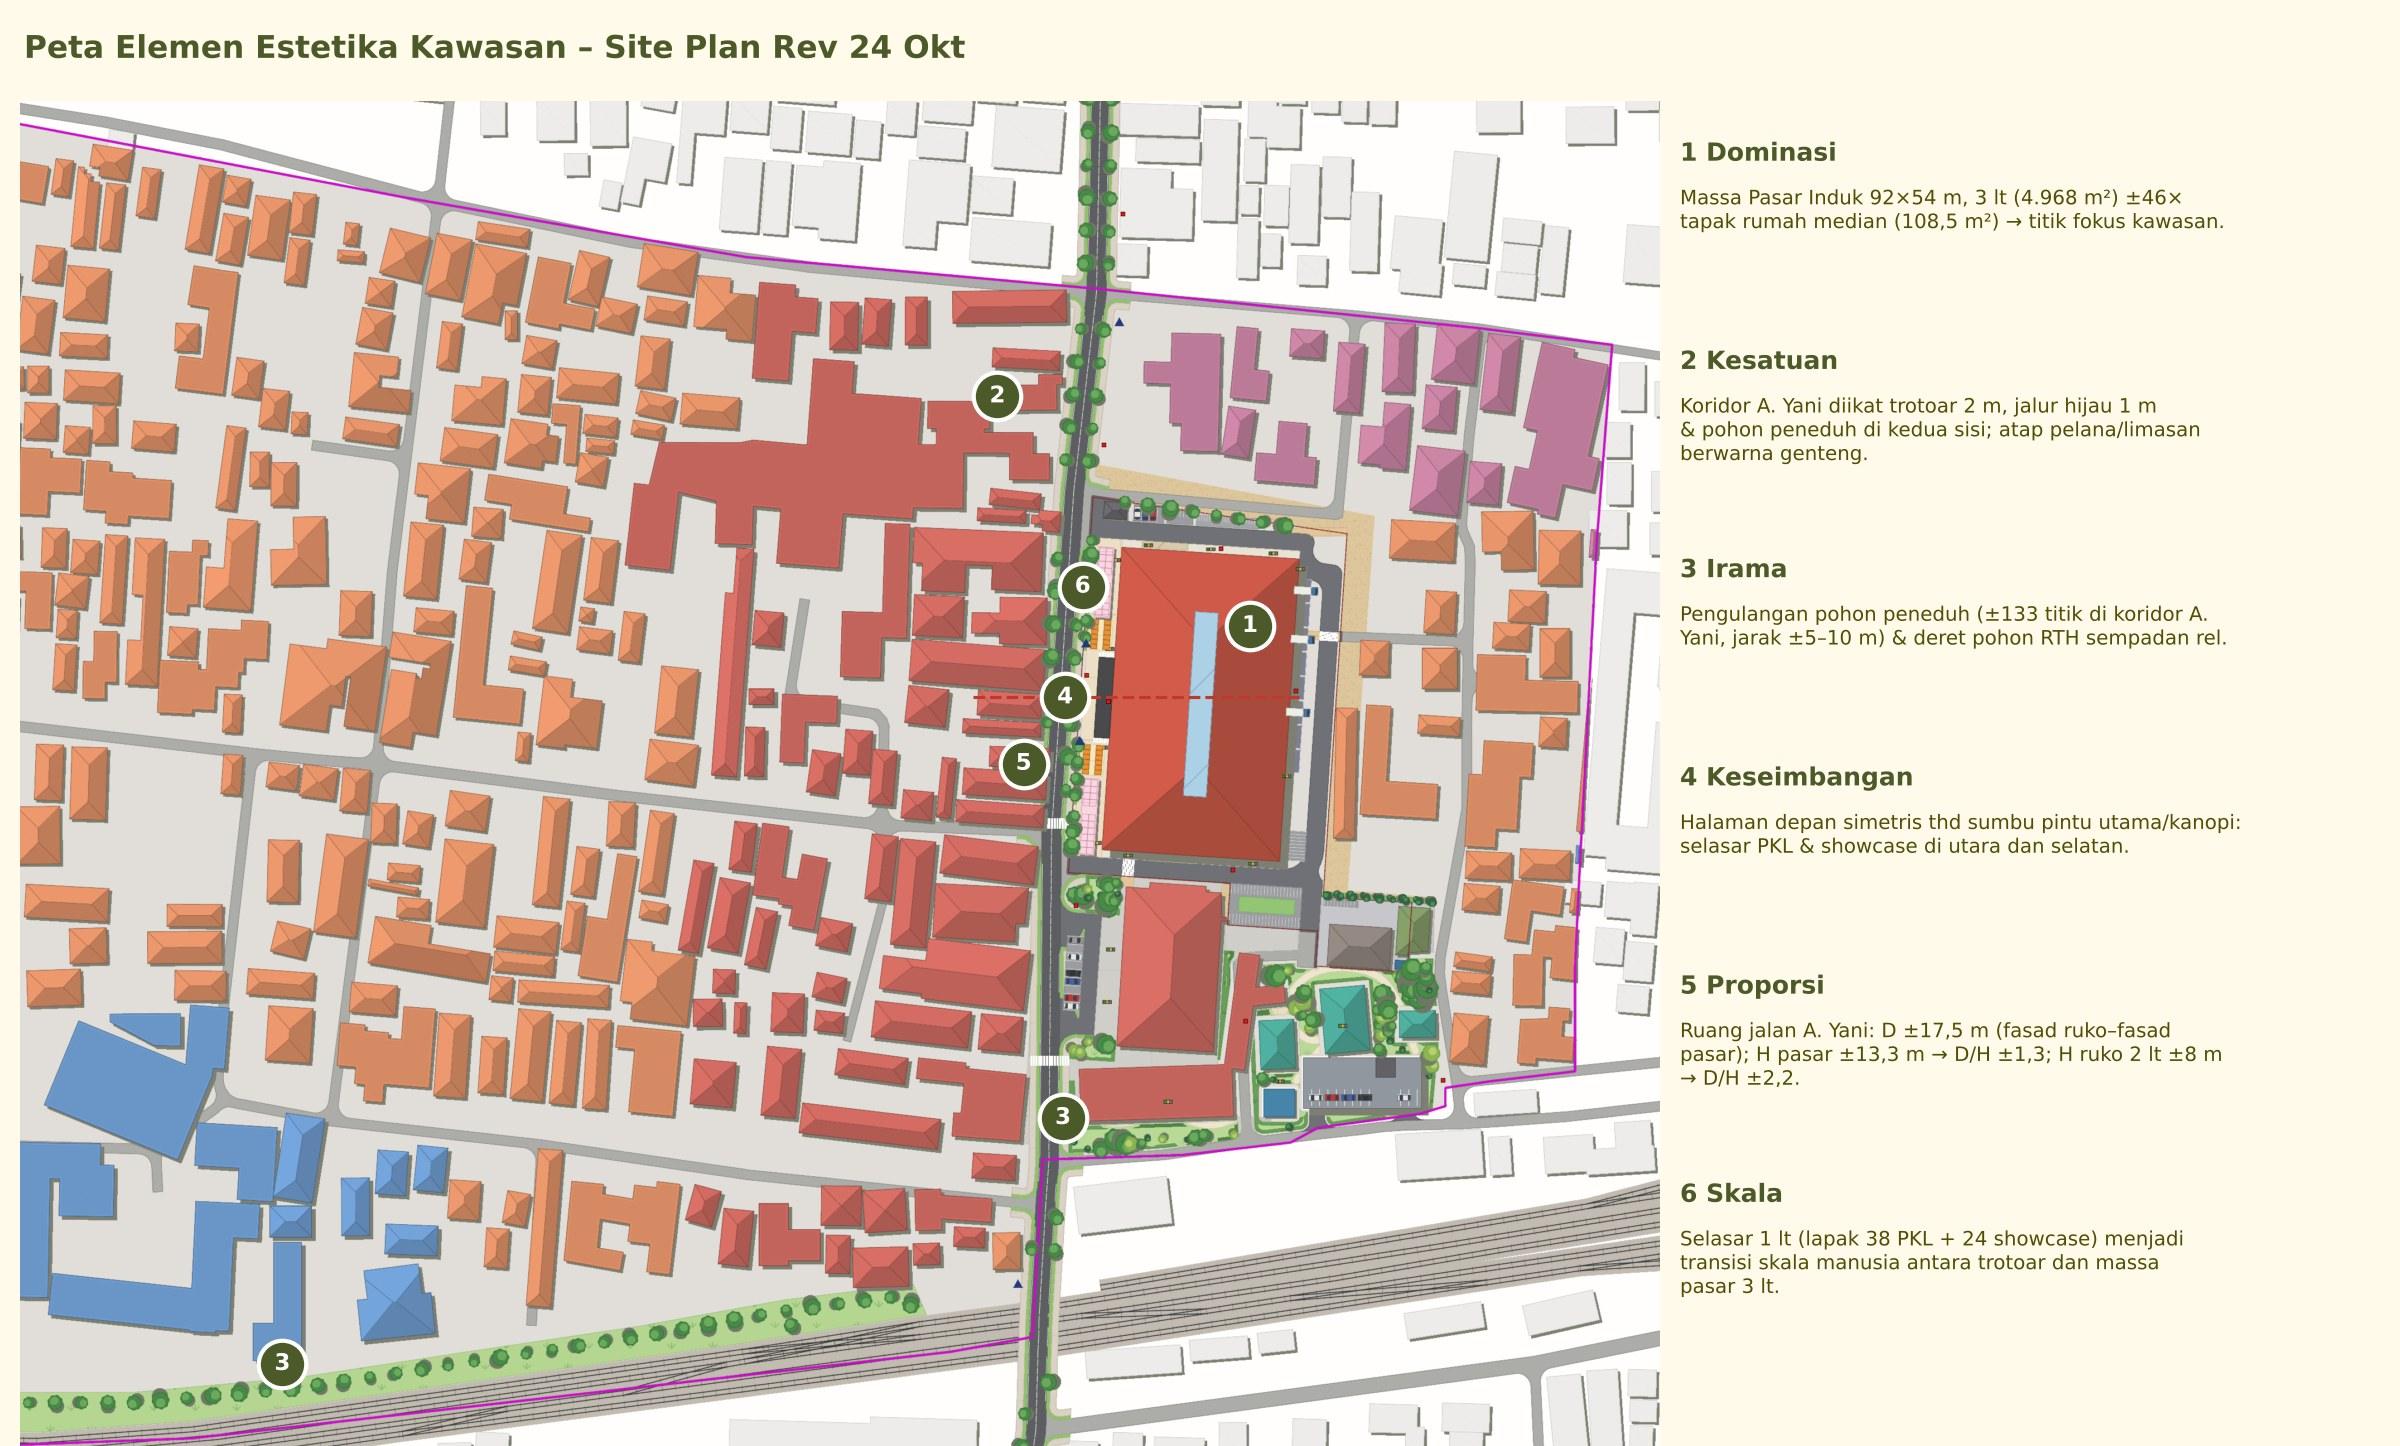
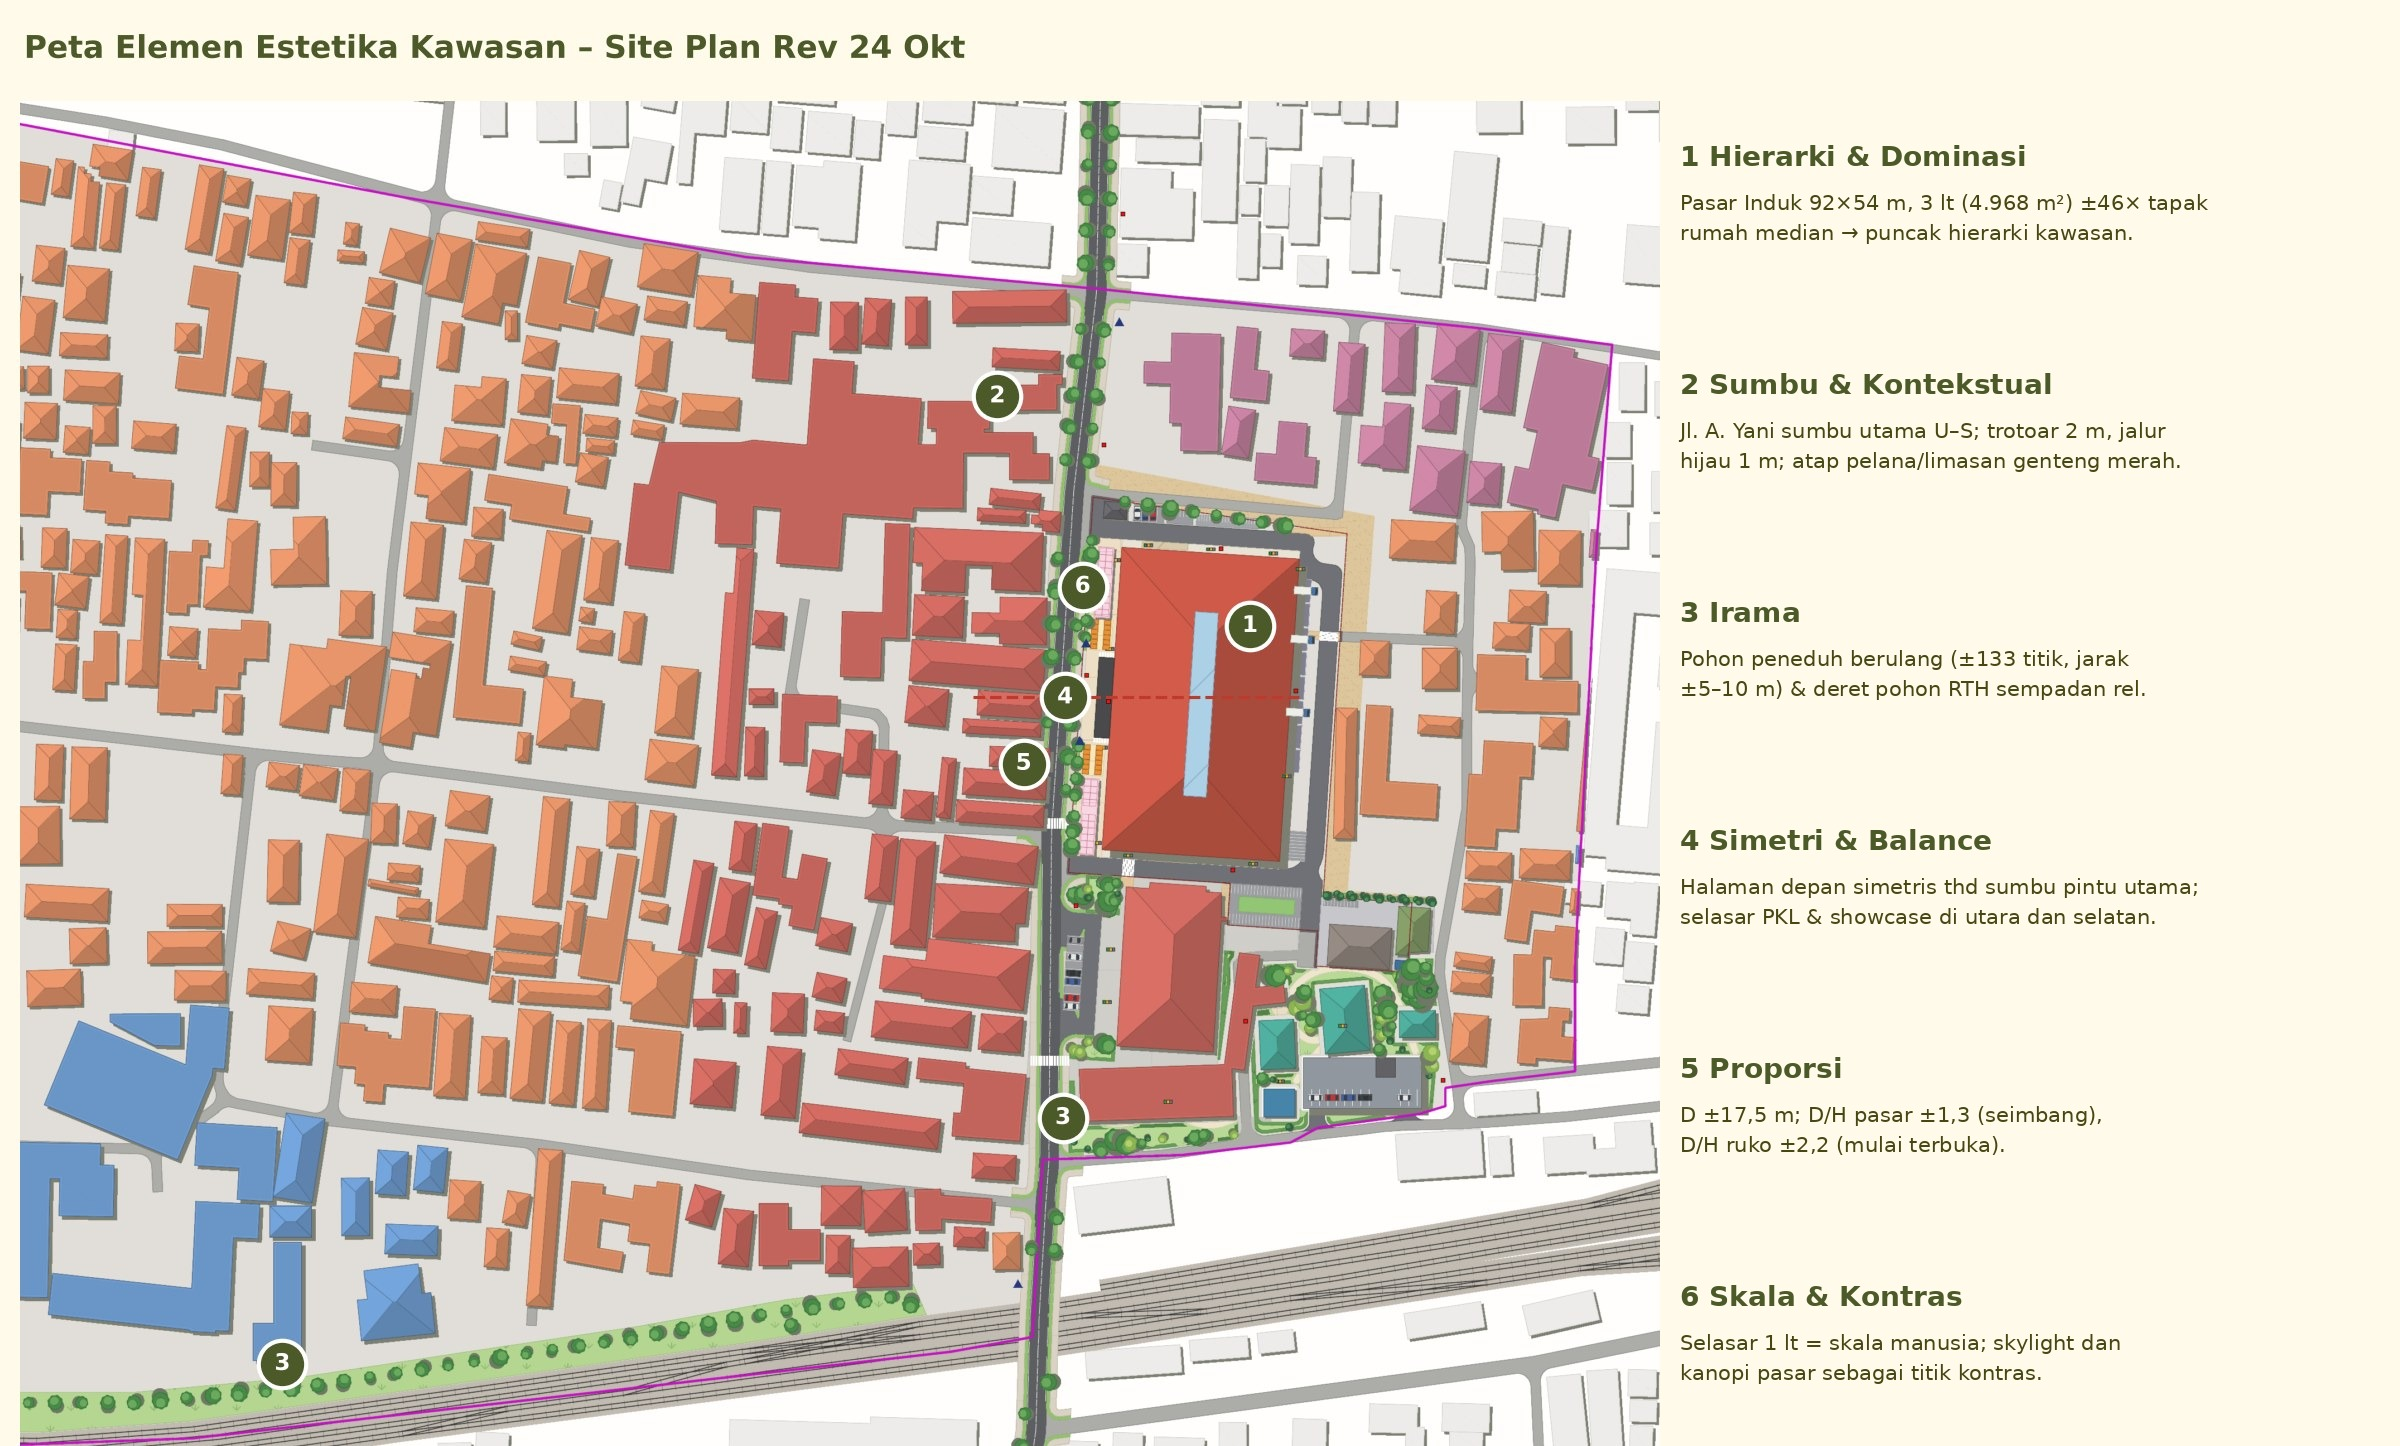
Selaraskan Bab IX dengan laporan referensi dan perbarui legenda peta estetika
Merge materi TM 1-7 dan laporan referensi dari main; simpan teks Bab VII-X.

Claude-Session: https://claude.ai/code/session_01FbUcmSkTGGjM8gYZg7qsEZ

diff --git a/Claude outputs/Cangkot_Rev_26-30Okt/skrip_kriteria_terukur/teks_bab_VII-X.py b/Claude outputs/Cangkot_Rev_26-30Okt/skrip_kriteria_terukur/teks_bab_VII-X.py
@@ -1,0 +1,40 @@
+from content import A as A0, P as P0
+A=dict(A0); A.update(kdb_hitung='MAHZBU29ltI',kdb_zona='MAHZBZ7Zso8',tinggi_hitung='MAHZBd0FtQY',gsb_hitung='MAHZBTu81zY',gsb_simpang='MAHZBT2Er2A',jarak_hitung='MAHZBWV4Vsk',metode_kt='MAHZBZIofak',amplop_rekap='MAHZBXWbsA0')
+P=dict(P0)
+P[77]=dict(title="Analisis Koefisien Dasar Bangunan (KDB)",
+ img=['kdb_eksisting','kdb_hitung','kdb_zona'],
+ alt=['KDB eksisting per zona dari data bangunan BIG/OSM','Perhitungan KDB metode infiltrasi air tanah: Iinf, Qinf, Q1Ha, OS, dan KDB 87,9%','Grafik KDB rencana per zona dibanding KDB maksimum hasil infiltrasi'],
+ d="Luas kawasan (A) 33,35 ha dengan kemiringan 0–5% (datar).\nTapak bangunan eksisting 105.679 m², sehingga KDB eksisting 31,7%; tertinggi di Pasar Induk (54%) dan koridor dagang (48%).\nKonstanta buku ajar: S = 0,001; I = 7,678 × 10⁻⁸ m/detik; c dari Tabel A.1.",
+ a="Iinf = 0,001 × 333.518 = 333,5 l/menit = 5,56 l/detik.\nQinf = 1,8 × 7,678.10⁻⁸ × 333.518 = 46,09 l/detik; Q1Ha = 1,382 l/detik/ha.\nOS = 5,56 / 1,382 = 4,02 ha, sehingga KDB = (33,35 − 4,02) / 33,35 = 87,9% ≈ 88%.\nZona c = 1,2 → KDB maks 81,9%; zona c = 0,8 → 72,9%.",
+ r="KDB maks: zona pusat/komersial 88%, permukiman dan pendidikan 82%, RTH dan sawah 73%.\nSemua zona rencana memenuhi. Gedung parkir (86,7%) paling dekat batas, sehingga tapaknya diperkecil menjadi 486 m² (75,6%).\nKDB kawasan rencana 32,2%; lahan tak terbangun ±22,6 ha, jauh di atas OS minimum 4,02 ha.")
+P[78]=dict(title="Analisis Ketinggian Bangunan",
+ img=['tinggi_eksisting','tinggi_hitung','tinggi_rencana'],
+ alt=['Peta ketinggian bangunan eksisting','Perhitungan ketinggian: jalur pesawat, FAR dan grafik LUI, ALO 45 derajat Pasar Induk, kesimpulan 6 lantai','Peta ketinggian bangunan rencana Rev 24 Okt'],
+ d="Permukiman didominasi bangunan 1–2 lantai (4–8 m); bangunan ≥3 lantai hanya setempat di koridor A. Yani, Kato, dan sekolah.\nBandara terdekat Tunggul Wulung (Cilacap) berjarak ±23 km.\nTapak Pasar Induk: Is = 104,2 m; ROW A. Yani rencana 13 m; KDB maks 87,9%.",
+ a="Jalur pesawat: 23 km > 9.090 m (batas keliling 2, Tabel B.2), jadi tidak membatasi.\nFAR = 1 / 0,879 = 1,14 → grafik LUI ±6,5 → 6 lantai (±24 m).\nALO 45°: Htot = 0,5 (6,5 + 104,2 + 0) = 55,35 m; h' = 53,85 m ≈ 13 lantai.\nDiambil nilai terendah: tinggi maks 6 lantai / 24 m.",
+ r="Tinggi maksimum kawasan ditetapkan 6 lantai (24 m).\nBangunan baru tertinggi adalah Pasar Induk dan gedung parkir, 3 lantai (±13,3 m); digital hub, TPS3R, dan balai pelatihan 1 lantai.\nProporsi tapak rencana: 1 lantai 32,0%, 2 lantai 55,3%, ≥3 lantai 12,6%; semuanya di bawah 6 lantai.")
+P[79]=dict(title="Analisis Garis Sempadan Bangunan",
+ img=['gsb_section','gsb_hitung','gsb_simpang'],
+ alt=['Penampang Jl. A. Yani rencana dan garis sempadan bangunan pasar','Perhitungan GSB metode jarak pengereman simpang Jl. A. Yani dan Jl. Cendrawasih','Skema GSB kavling sudut simpang A. Yani dan Cendrawasih, a 17,6 m dan b 20,1 m'],
+ d="Jl. A. Yani (kolektor primer): badan jalan 6 m, rencana trotoar 2 m; kecepatan rencana 40 km/jam.\nJl. Cendrawasih (lingkungan): lebar 3,2 m tanpa trotoar; kecepatan ±20 km/jam.\nWaktu reaksi ta = 0,95 detik (Tabel C.2, 25 mil/jam).",
+ a="a1 = 3 + 2 = 5 m; b1 = 1,6 m; Va = 25 mil/jam; Vb = 12,5 mil/jam.\nDa = 0,063(25)² + 1,47(0,95)(25) + 16 = 90,29 ft = 27,53 m; Db = 61,14 ft = 18,64 m.\nb2 = 0 → a2 = 12,56 m, jadi a = 17,6 m; a2 = 0 → b2 = 18,54 m, jadi b = 20,1 m (dari as jalan).",
+ r="Kavling sudut simpang A. Yani × Cendrawasih bebas bangunan dan penghalang pandang sampai a = 17,6 m dari as A. Yani atau b = 20,1 m dari as Cendrawasih.\nRuko sudut eksisting tidak menambah lantai, kanopi, atau reklame di sudut; bila dibangun ulang wajib mengikuti GSB.\nPasar Induk berada di seberang simpang T, di luar segitiga pandang.")
+P[80]=dict(title="Analisis Jarak Antar Bangunan",
+ img=['jarak_map','jarak_hitung','gp_respon'],
+ alt=['Peta jarak antar bangunan baru pada DWG Rev 24 Okt','Tabel jarak antar bangunan berdasarkan ALO 45 derajat dan Tabel B.3 DPU 1987','Usulan penyesuaian tapak gedung parkir'],
+ d="Jarak diukur dari DWG Rev 24 Okt untuk lima pasangan bangunan baru.\nPasar–Kato 9,0 m; pasar–rumah 14,2 m; gedung parkir–kantor pos 1,0 m; TPS3R–bangunan servis 1,6 m; balai pelatihan–rumah 2,8 m.\nAcuan buku ajar: ALO (jarak = tinggi / tg 45°) dan Tabel B.3 DPU 1987.",
+ a="Tinggi maks kawasan 24 m: ALO → 24 m; DPU (14–40 m) → 6–8 m.\nPasar–rumah (14,2 m) memenuhi DPU dan ALO; pasar–Kato (9,0 m) memenuhi DPU 3–6 m, tetapi kurang dari ALO 13,3 m.\nGedung parkir–kantor pos, TPS3R–bangunan servis, dan balai pelatihan–rumah belum memenuhi jarak minimum DPU 3 m.",
+ r="Tapak gedung parkir diperkecil menjadi 36 × 13,5 m (486 m²) sehingga berjarak 3,0 m dari kantor pos.\nTPS3R dan balai pelatihan (1 lantai) digeser hingga berjarak ≥3 m.\nMassa lantai 1–2 pasar di sisi Kato setinggi ±8,84 m (FFL lantai 3) < 9,0 m, sehingga memenuhi ALO 45°; lantai 3 sisi Kato dibuat mundur.")
+P[83]=dict(P0[83],title="Analisis Sumbu dan Hierarki",
+ d="Jl. A. Yani membentang utara–selatan sebagai sumbu utama kawasan; pintu utama pasar berada di tengah fasad barat, tegak lurus jalan.\nBangunan Pasar Induk saat ini mangkrak; rancangan baru 92 × 54 m, 3 lantai (tapak 4.968 m²).\nMedian tapak rumah sekitar 108,5 m² (n = 488), umumnya 1–2 lantai.",
+ a="Sumbu A. Yani kuat sebagai jalur gerak, tetapi belum punya penanda awal dan akhir; sumbu pintu utama pasar belum terbaca dari jalan.\nMassa pasar ±46 kali tapak rumah median, sehingga menjadi elemen dominan dan puncak hierarki kawasan.\nTanpa elemen peralihan, muka pasar terasa menekan bagi pejalan kaki.",
+ r="Sumbu A. Yani ditegaskan dengan trotoar, jalur hijau, dan pohon berulang dari simpang Betet (ME) sampai perlintasan KA (X).\nSumbu silang dari simpang Cendrawasih ke pintu utama pasar dipertegas zebra cross, kanopi, dan halaman depan.\nHierarki massa: pasar 3 lantai → Kato/ruko 2–3 lantai → selasar PKL 1 lantai → permukiman 1–2 lantai.")
+P[84]=dict(P0[84],title="Analisis Irama, Kontekstual, Kontras",
+ alt=['Foto koridor Jl. A. Yani eksisting','Kontekstual: atap genteng merah-bata pada pasar, Kato, dan ruko; trotoar menerus','Irama pohon peneduh dan jalur hijau di kedua sisi Jl. A. Yani'],
+ d="Koridor Jl. A. Yani belum memiliki trotoar dan jalur hijau menerus; pohon peneduh hanya ada setempat.\nRuko, Kato, dan rumah memakai atap pelana/limasan genteng merah bata.\nMuka bangunan tertutup lapak PKL, parkir, dan reklame yang beragam.",
+ a="Bahasa atap genteng yang seragam membentuk karakter kontekstual, tetapi belum diikat elemen jalan yang sama.\nTidak ada pengulangan elemen berjarak teratur, sehingga irama koridor belum terbentuk.\nMassa pasar 3 lantai dengan skylight akan kontras terhadap ruko 1–2 lantai; kontras ini perlu diarahkan agar pasar terbaca sebagai pusat.",
+ r="Pohon peneduh ditanam berulang tiap ±5–10 m (±133 titik di koridor A. Yani), berlanjut di RTH sempadan rel sebagai irama kawasan.\nAtap pasar, Kato, dan ruko tetap genteng merah bata agar kontekstual.\nKontras dipusatkan pada skylight pasar dan kanopi pintu utama; reklame ruko diseragamkan ukuran dan letaknya.")
+P[85]=dict(P0[85],title="Analisis Simetri, Balance, dan Proporsi",
+ d="Jl. A. Yani lebar 6 m; jarak fasad ruko ke fasad pasar (D) ±17,5 m.\nRuko sisi barat umumnya 2 lantai (±8 m), pasar 3 lantai (±13,3 m).\nPintu utama pasar berada di tengah fasad barat; halaman depan belum tertata.",
+ a="D/H terhadap pasar = 17,5/13,3 ≈ 1,3 (seimbang, terlingkupi); terhadap ruko = 17,5/8 ≈ 2,2 (mulai terbuka). Ashihara: D/H 1–2 ideal.\nKedua sisi jalan tidak sama tinggi, sehingga keseimbangan koridor bersifat asimetris.\nSumbu pintu utama dapat menjadi poros simetri halaman depan.",
+ r="Halaman depan disusun simetris terhadap sumbu pintu utama: selasar PKL dan showcase di sisi utara dan selatan.\nPohon peneduh di sisi ruko mengimbangi massa pasar dan menutup kesan terbuka (D/H 2,2).\nSelasar 1 lantai menjadi skala manusia di depan pasar; ruko maksimal 3 lantai agar D/H tetap 1–2.")
